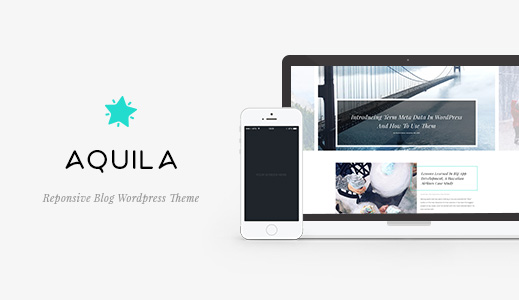
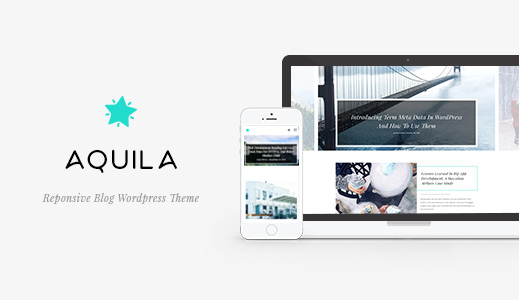
Update

Changed region(s): [[0.4624, 0.42, 0.5857, 0.75]]

diff --git a/desc/desc.html b/desc/desc.html
@@ -1,35 +1,43 @@
-<h2>Aquila - Creative Blog Wordpress Theme</h2>
-<p>We are happy to announce our new Aquila - Creative Blog Wordpress Theme. A great UI with a unique cool design, modern, stylish, and intuitive assistant for creating your best blog articles. </p>
+<h2>Aquila - Reponsive Blog Wordpress Theme</h2>
+<p>We are happy to announce our new Aquila - Reponsive Blog Wordpress Theme. A great UI with a unique cool design, modern, stylish, and intuitive assistant for creating your best blog articles. </p>
 
 
-<p>
-    <a rel="nofollow" href="https://www.facebook.com/kitethemes/"><img alt="Follow us on Facebook" src="http://kitethemes.com/images/follow-facebook.jpg"></a>
-    &nbsp;&nbsp;&nbsp;&nbsp;
-    <a href="http://themeforest.net/user/Kite-Themes/follow?ref=Kite-Themes"><img alt="Follow us on ThemeForest" src="http://kitethemes.com/images/follow-themeforest.jpg"></a>
-    <br>
-    <a href="http://themeforest.net/author_dashboard"><img alt="Rate for us" src="http://kitethemes.com/images/rate-for-us.jpg"></a>
-</p>
-<p>&nbsp;</p>
-
-
+<p><img src="http://kitethemes.com/images/aquila-desc.jpg"></p>
+<p>Please vote it 5 star, if you like our theme , Thanks you :)</p>
 <h2>Theme Features</h2>
-
 <ul>
     <li><strong>Visual Page Builder SAVE $33</strong></li>
-    <li>WordPress 4+ Ready</li>
-    <li>WPML supported</li>
+    <li>Contact form 7</li>
+</ul>
+<ul>
+    <li>
+        Layout Formats
+        <ul>
+            <li>Standard Layout</li>
+            <li>Grid Layout</li>
+            <li>1st Full Post then List Layout</li>
+            <li>List Layout</li>
+            <li>1st Full Post then Grid Layout</li>
+            <li>Sidebar is selectable for each layout</li>
+        </ul>
+    </li>
+</ul>
+<ul>
     <li>Unlimited color</li>
-    <li>Color presets included</li>
+    <li>Advance Bootstrap 3 Framework</li>
     <li>Full responsive</li>
     <li>Valid HTML &amp; CSS</li>
     <li>Google Fonts</li>
+    <li>Author Post</li>
+    <li>Rerated posts</li>
+    <li>Next &amp; Prev Post</li>
+    <li>Integrate Comingsoon</li>
     <li>Custom 404 Page</li>
     <li><strong>Once Click Demo Install</strong></li>
     <li>Supported Contact form 7</li>
     <li>Compatible with WPML</li>
+    <li>Compatible with Layer slider</li>
     <li>Sticky Header</li>
-    <li>Multiple header layouts</li>
-    <li>Mega Menu</li>
     <li>MailChimp Sync</li>
     <li>Instagram, Flick feed</li>
     <li>Power Theme Options with Redux framework</li>
@@ -37,9 +45,6 @@
     <li>Well documented &ndash; Setup theme tutorial video</li>
     <li>SEO Optimized</li>
     <li>Change site layout in one click ( Wide or Boxed )</li>
-    <li>Child Theme Ready</li>
-    <li>&nbsp;</li>
-    <li>and much more ...</li>
 </ul>
 <h2>Source &amp; Credits</h2>
 
@@ -55,16 +60,7 @@
 
 <h2>Image Source</h2>
 <p>Any Images or logos used in previews are not included in this item or final purchase and you need to contact authors to get permission in case you want to use them in your commercial or non-commercial projects.</p>
-<p>We used <a rel="nofollow" href="https://placehold.it/">https://placehold.it/</a> for placeholders.</p>
-
-
 
 <h2>Changelog</h2>
 <p><strong>v1.0 &ndash; 1.2016</strong></p>
 <pre><code>Initial Release</code></pre>
-
-
-
-Tags
-
-blog, blogger, clean, creative, fashion, food, gallery, girl, instagram, lifestyle, modern, blog, personal, simple

diff --git a/desc/tag.html b/desc/tag.html
@@ -1,0 +1,1 @@
+blog, blogger, clean, creative, fashion, food, gallery, girl, instagram, lifestyle, modern, blog, personal, simple
